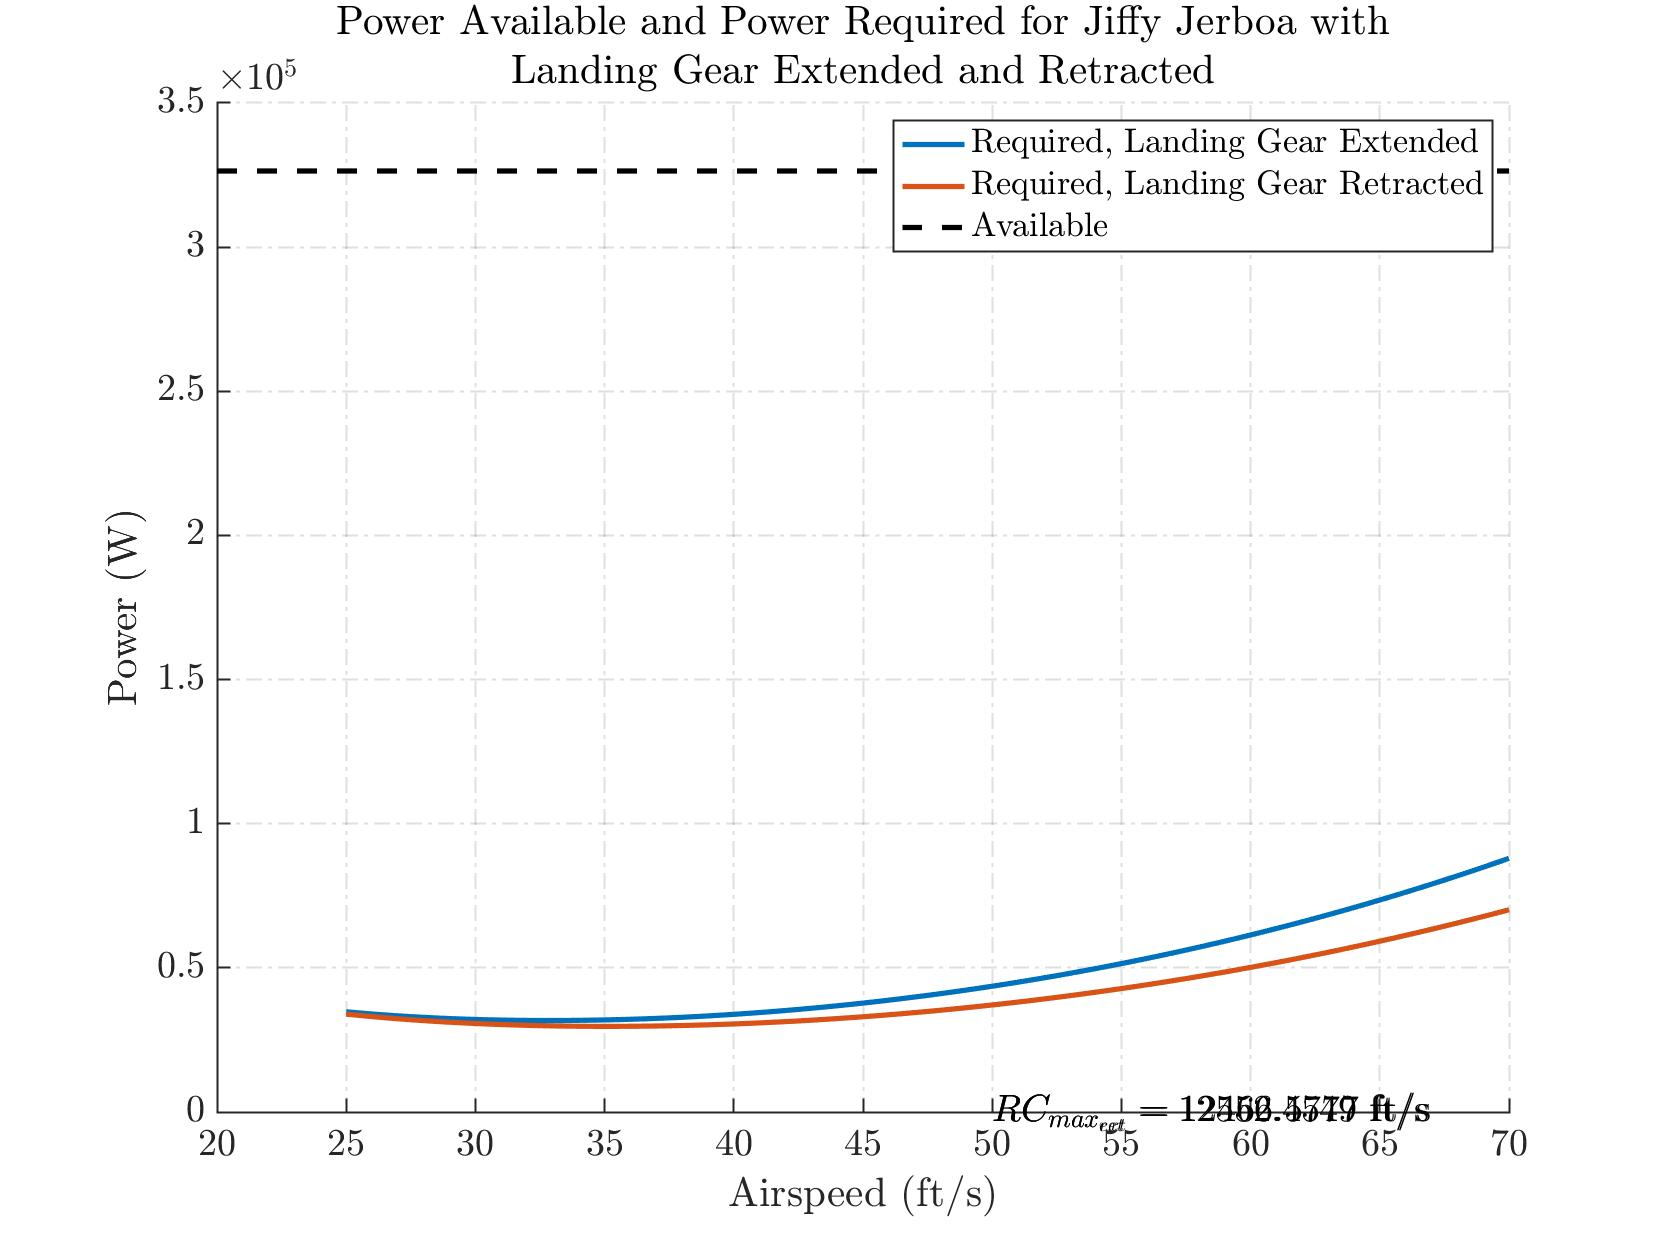
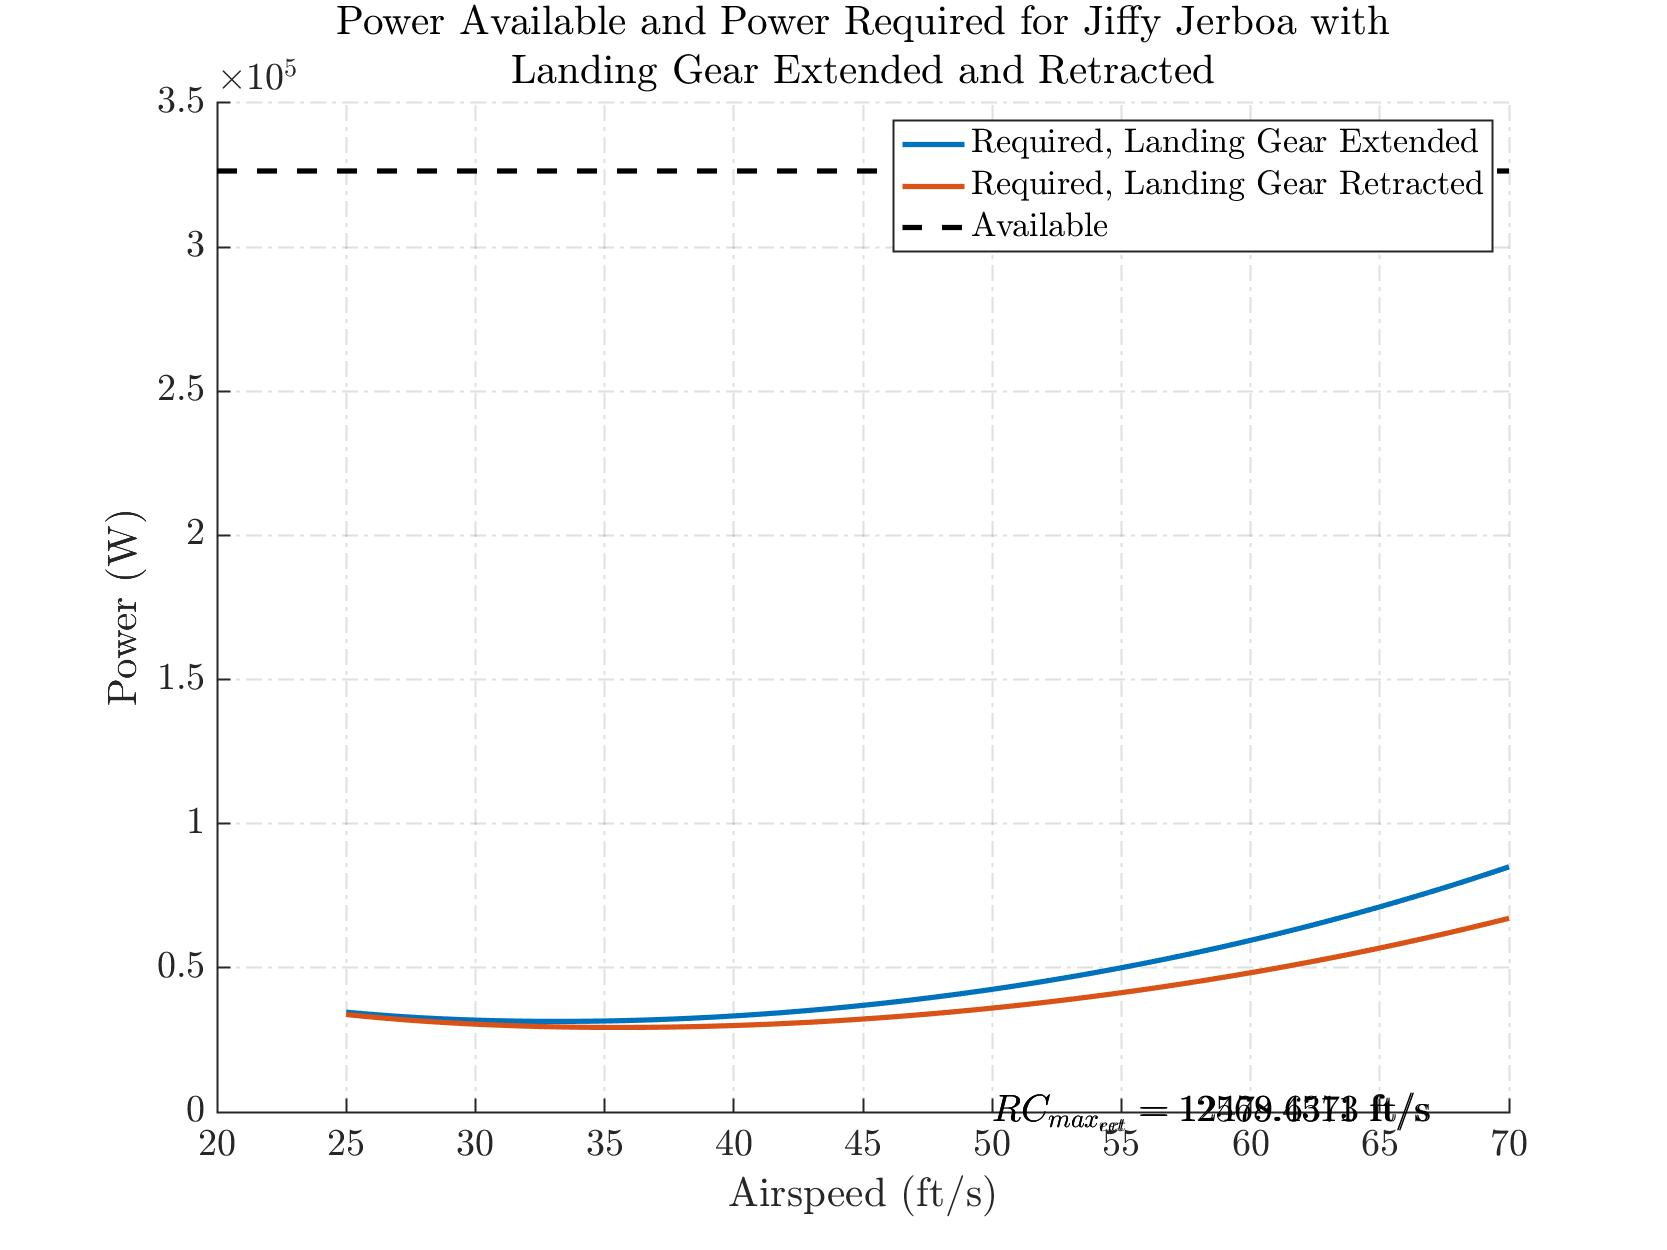
Update to drag breakdown
TVG 03.17.2021

Changed region(s): [[0.2496, 0.6864, 0.9046, 0.8424], [0.7175, 0.8736, 0.811, 0.9048]]

diff --git a/MATLAB_Codes/Drag_Breakdown.m b/MATLAB_Codes/Drag_Breakdown.m
@@ -110,7 +110,7 @@ Rew = Re(rho,Ucruise,MGCw,mu);
 Cfw = Cf(Ma,Rew);
 
 % Wing CD0
-CD0w = CD0ww(Rwf,RLS,Cfw,2,0.14,Swet_wing,Sref);
+CD0w = CD0ww(Rwf,RLS,Cfw,Lp,0.14,Swet_wing,Sref);
 
 % Total
 CDw = CD0w;
